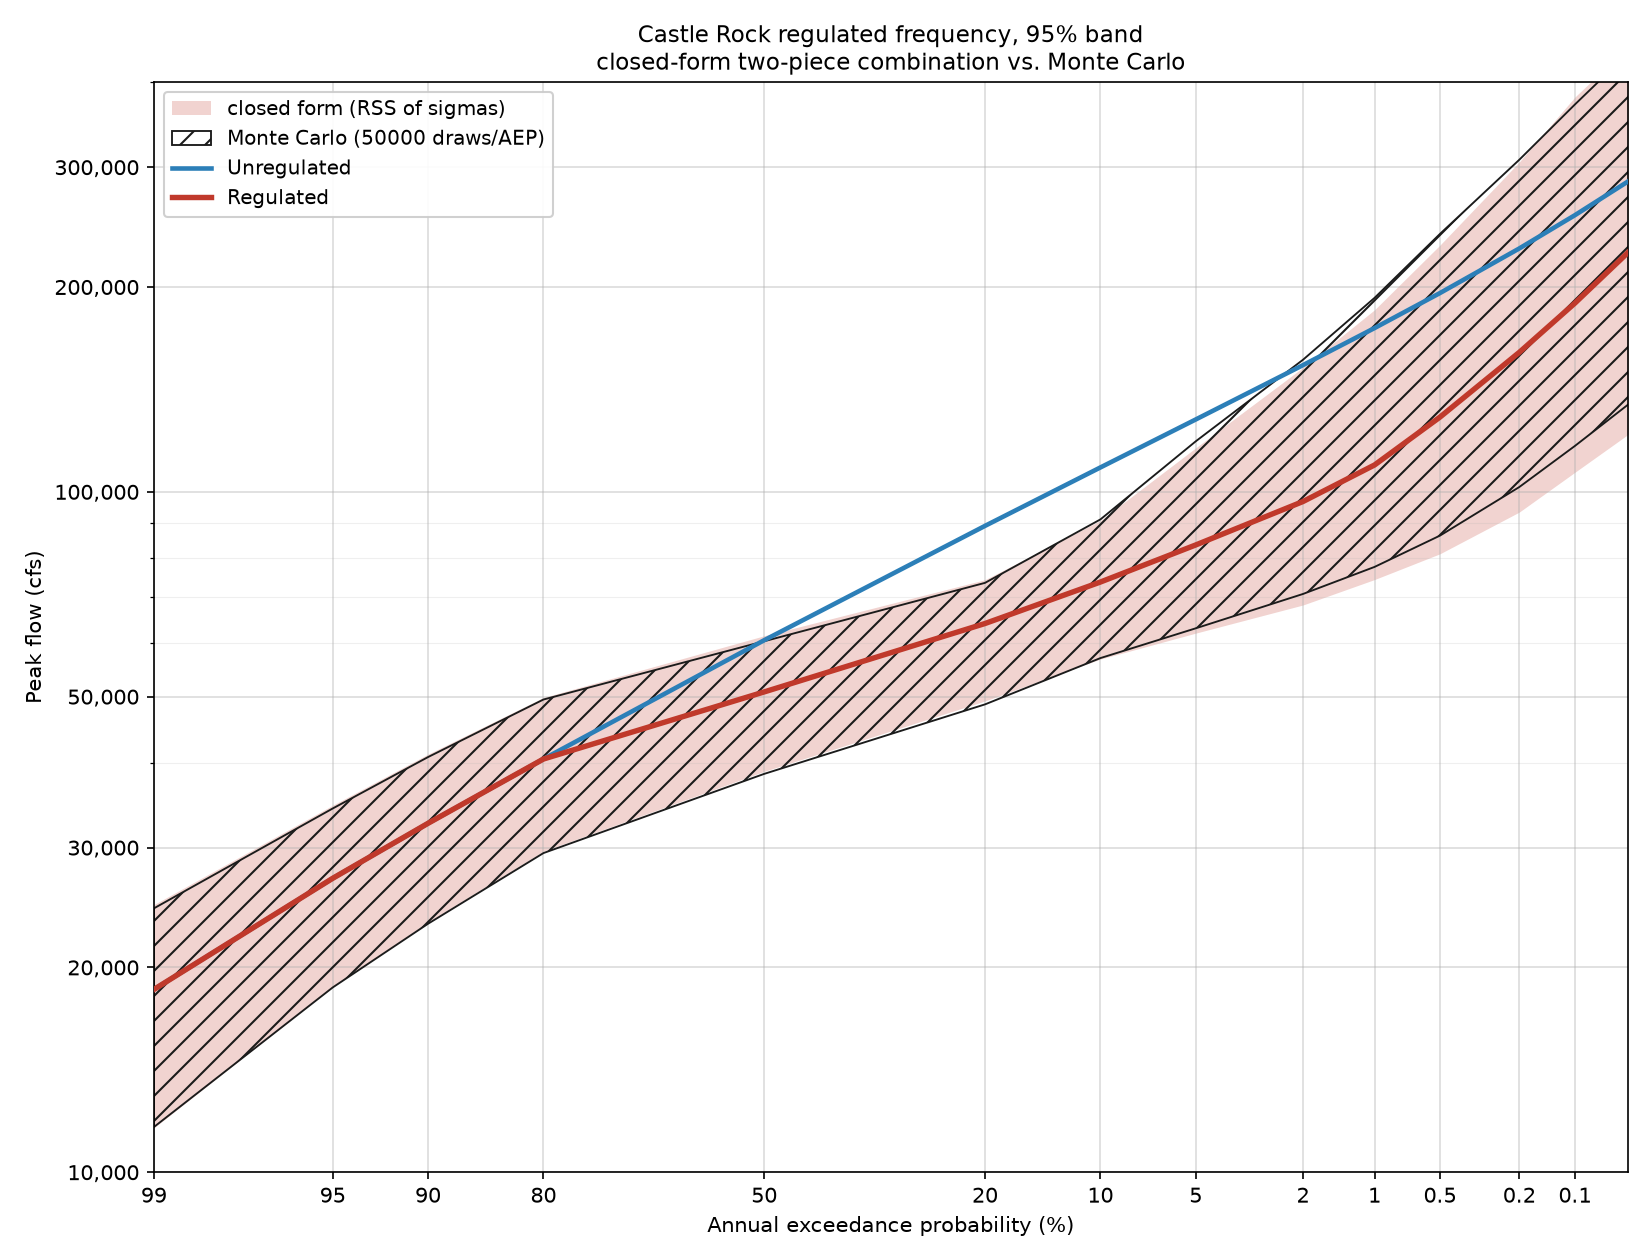
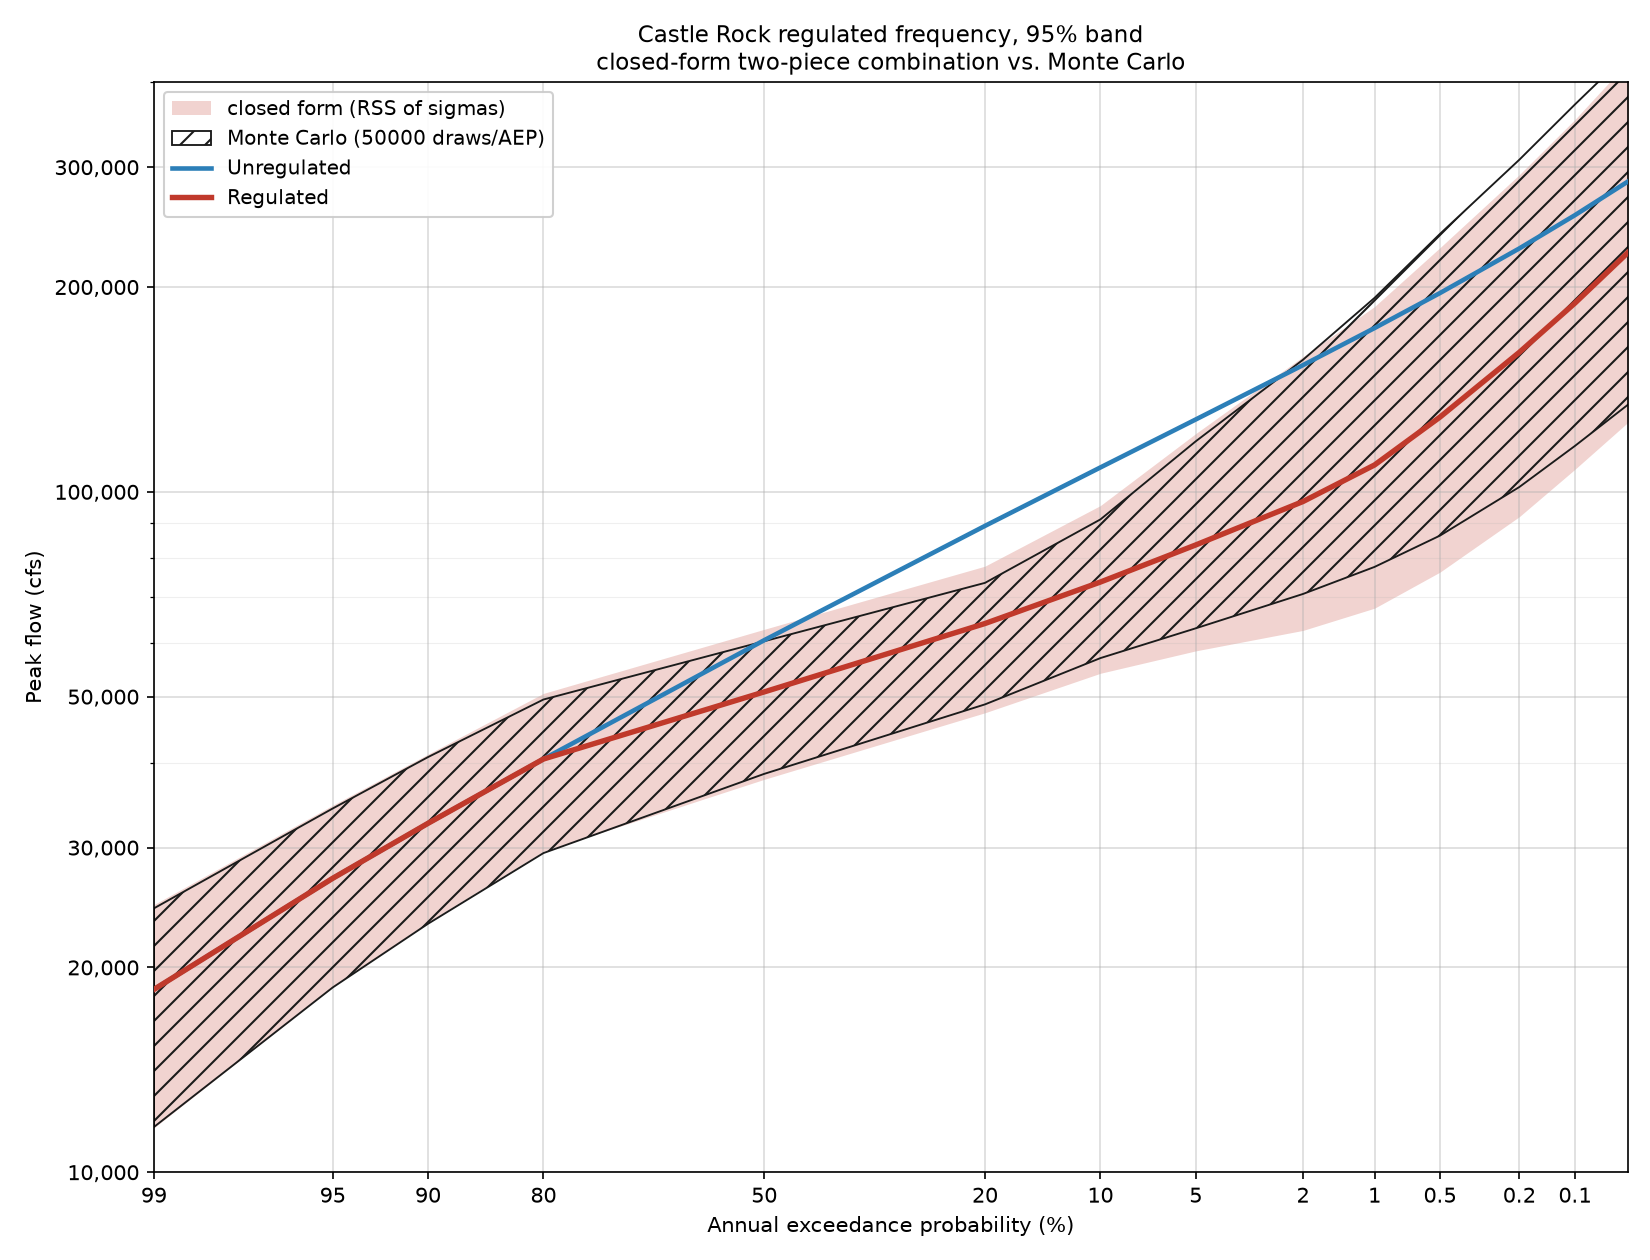
Unreg_Reg_Curve: revert FREQ_TERM_MODE to literal pending reviewer's answer
Reverts the 19 Aug switch to transform_curve. The reviewer's own formula
(literal) is adopted again while his answer on whether to convert the
unregulated bound through the transform first is still open -- see the
comment above FREQ_TERM_MODE for the one-line summary either way.

transform_curve remains fully supported and unaffected by this revert: both
modes are still computed every run, freq_term_mode_comparison.txt and the
three unreg_reg_freqmode_*.png figures are unchanged (they label both modes
by name regardless of which is adopted, as before). Only the adopted band
-- CSV's reg_lower/upper_95pct_cfs, unreg_reg_final_uncertainty.png,
unreg_reg_final_curves.png, monte_carlo_check.txt -- moves back to literal.

Checked while reverting, not assumed: how often CLIP_BAND_TO_UNREG's
physical ceiling has to bite differs between the two modes and in the
opposite direction from what might be guessed. literal needs the clip at
1 AEP (0.0001); transform_curve needs it at 3 (0.0005, 0.0002, 0.0001).
That's because transform_curve's frequency term gets amplified, not damped,
right at the top of the curve, where the transform's local slope exceeds 1
(storage exhausted, near pass-through) -- so its raw, unclipped upper bound
runs wider there and hits the ceiling more often, not less. Recorded here
since it came up in conversation and is worth having in the commit history
rather than only in chat.

diff --git a/CAS_Reg_Unreg/src/#Unreg_Reg_Curve.py b/CAS_Reg_Unreg/src/#Unreg_Reg_Curve.py
@@ -377,30 +377,22 @@ TRANSFORM_SIGMA_SPAN = 0.50
 # How the "frequency" (unregulated-curve) term of the combination is
 # expressed, before it is RSS'd against the transform term. The reviewer's
 # formula is written as (Unreg_bound - Unreg_best) -- a delta in UNREGULATED
-# cfs -- added directly to a REGULATED-cfs transform term. That mixes units
-# (a regulated flow cannot literally gain "unregulated cfs of uncertainty"),
-# and while the two modes track each other reasonably closely over most of
-# THIS curve, that is a property of this transform's particular shape (its
-# attenuation ratio and log-log slope partly offsetting), not something
-# guaranteed for a different basin or a re-fit transform -- see
-# freq_term_mode_comparison.txt. "literal" implicitly assumes the transform's
-# local slope is 1 (pure pass-through) wherever it skips the conversion,
-# which is false through most of this curve (30-37% attenuation). Switched
-# to "transform_curve" for that reason -- it is correct by construction
-# rather than by coincidence, and costs nothing (the fitted curve is already
-# on hand).
+# cfs -- added directly to a REGULATED-cfs transform term, which mixes units
+# unless the bound is pushed through the transform first. Set back to
+# "literal" (the reviewer's formula exactly) on 19 Aug 2026, pending the
+# reviewer's answer to whether he wants it converted -- "transform_curve" is
+# the dimensionally consistent version and is still fully supported (both
+# modes are always computed either way; this only picks which one is the
+# adopted band vs. the "_alt" comparison columns), just not adopted while
+# that question is open. See freq_term_mode_comparison.txt for the
+# reasoning either way.
 #   "literal"         reviewer's formula exactly: freq term = Unreg_bound -
-#                      Unreg_best, in raw unregulated cfs. Kept only for
-#                      comparison (freq_term_mode_comparison.txt/plots) and
-#                      as the literal reading of the reviewer's request.
+#                      Unreg_best, in raw unregulated cfs. ADOPTED for now.
 #   "transform_curve"  push the unregulated bound through the fitted transform
 #                      curve first (apply_transform), so the freq term is
 #                      already in regulated cfs before combining. Dimensionally
-#                      consistent -- ADOPTED. Both modes are always computed
-#                      and written to the CSV/report; this only picks which
-#                      one is the adopted band vs. the "_alt" comparison
-#                      columns.
-FREQ_TERM_MODE = "transform_curve"
+#                      consistent; was adopted 19 Aug 2026, reverted same day.
+FREQ_TERM_MODE = "literal"
 # Keep the two sides of the frequency interval separate so the noncentral-t
 # asymmetry survives the combination. False averages them into one sigma.
 COMBINE_ASYMMETRIC = True
